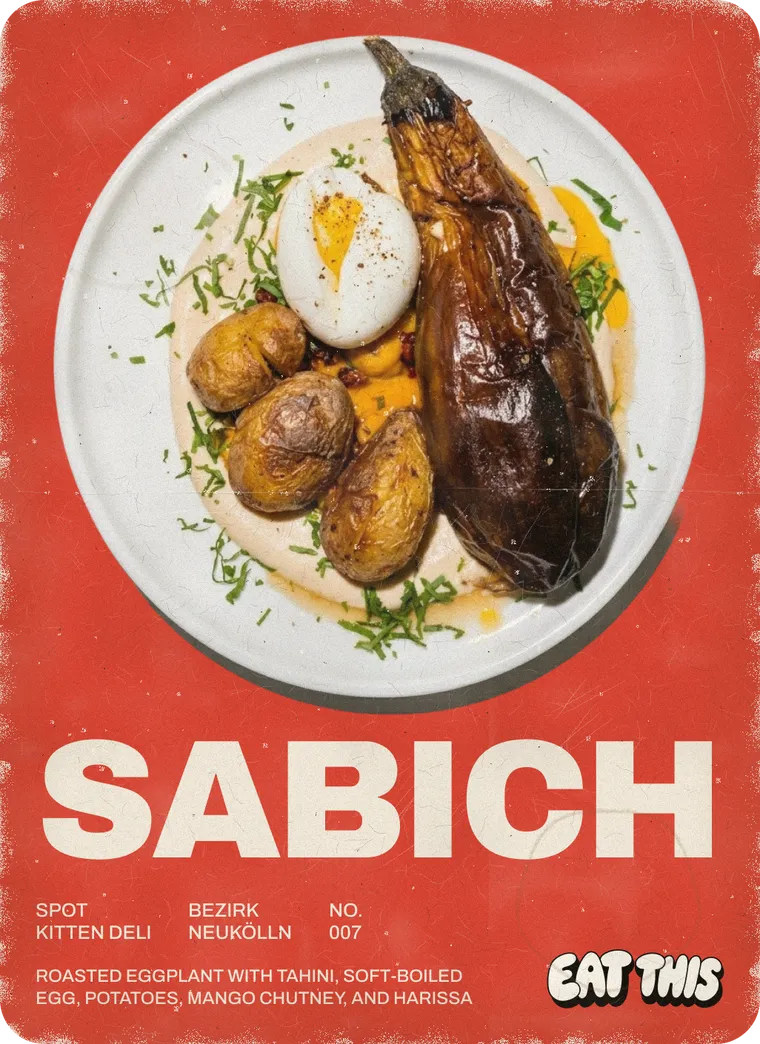
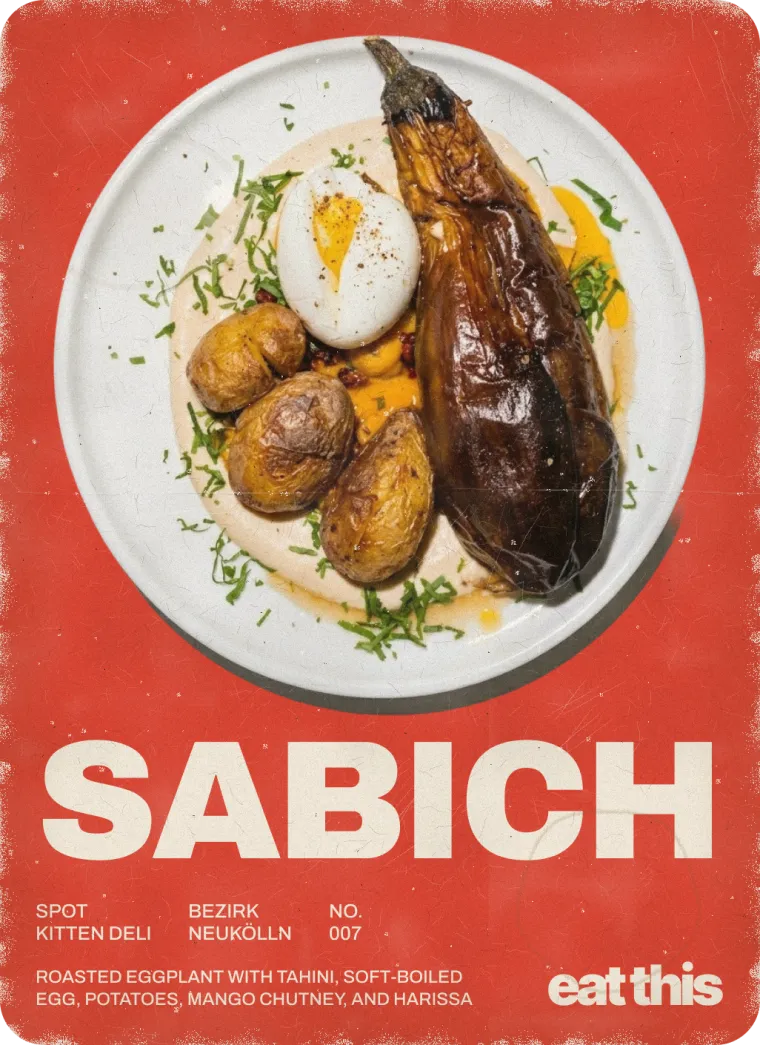
Refresh Must Eat previews and Drinks pack from Figma

diff --git a/nextjs/app/components/SignInReward.tsx b/nextjs/app/components/SignInReward.tsx
@@ -150,7 +150,7 @@ function pages(identity: Identity | null) {
 }
 
 const CARD_BACK = '/pics/card-back.webp?v=8';
-const CARD_FRONT = '/pics/card-front.webp?v=5';
+const CARD_FRONT = '/pics/card-front.webp?v=6';
 
 /** Das Kartenbild eines Must Eats — die Bild-Route, die auch Deck und Map
  *  benutzen; 440 ist die Sprosse fuer eine Karte bis 220 px bei 2x. */
@@ -191,8 +191,8 @@ const PACK_CARDS = Array.from({ length: 20 }, (_, order) => {
 const DECK_CARDS = [
   CARD_BACK,
   CARD_BACK,
-  '/pics/card-front.webp?v=5',
-  '/pics/card-front-sabich.webp?v=3',
+  '/pics/card-front.webp?v=6',
+  '/pics/card-front-sabich.webp?v=4',
 ] as const;
 
 /**
@@ -674,7 +674,7 @@ export default function SignInReward() {
                 {/* eslint-disable @next/next/no-img-element */}
                 <img
                   className={styles.face}
-                  src={shown ? mustEatCard(shown) : '/pics/card-front-sabich.webp?v=3'}
+                  src={shown ? mustEatCard(shown) : '/pics/card-front-sabich.webp?v=4'}
                   alt={t.reveal.alt}
                 />
                 <img

diff --git a/nextjs/lib/categoryArt.ts b/nextjs/lib/categoryArt.ts
@@ -3,7 +3,7 @@ const CATEGORY_ART: Record<string, string> = {
   breakfast: '/pics/booster/booster_breakfast.webp?v=2',
   coffee: '/pics/booster/booster_coffee.webp?v=2',
   dinner: '/pics/booster/booster_dinner.webp?v=2',
-  drinks: '/pics/booster/booster_drinks.webp?v=2',
+  drinks: '/pics/booster/booster_drinks.webp?v=3',
   'fast-food': '/pics/booster/booster_fastfood.webp?v=2',
   'fine-dining': '/pics/booster/booster_finedining.webp?v=2',
   lunch: '/pics/booster/booster_lunch.webp?v=2',

diff --git a/nextjs/app/components/AboutPage.tsx b/nextjs/app/components/AboutPage.tsx
@@ -82,7 +82,7 @@ const FIGURES: (Figure | null)[] = [
     src: '/pics/card-back.webp',
     width: 760,
     height: 1044,
-    partner: { src: '/pics/card-front.webp?v=5', width: 760, height: 1044, tilt: 7 },
+    partner: { src: '/pics/card-front.webp?v=6', width: 760, height: 1044, tilt: 7 },
     // The pair spans the rail; each card lands near 62% of it. Two overlapping
     // cards carry more weight than one plate, hence narrower than the 290 the
     // galette gets.

diff --git a/nextjs/app/components/AuthScreen.tsx b/nextjs/app/components/AuthScreen.tsx
@@ -6,7 +6,7 @@ import { useTranslation } from '@/lib/i18n';
 import styles from './AuthScreen.module.css';
 
 const CARD_BACK = '/pics/card-back.webp?v=8';
-const CARD_FRONT = '/pics/card-front.webp?v=5';
+const CARD_FRONT = '/pics/card-front.webp?v=6';
 
 /**
  * Wie lange der Screen mindestens stehen bleibt, bevor die Seite ihn wegnimmt.
